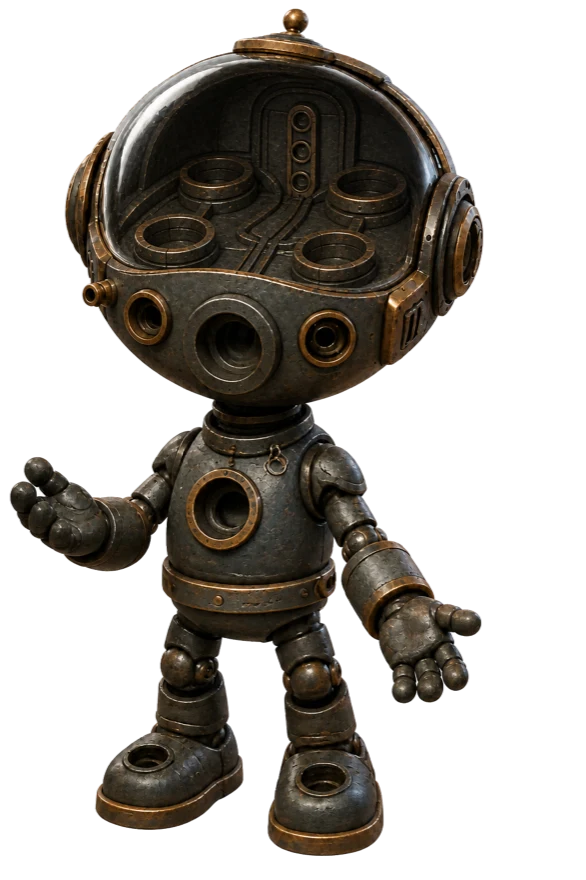
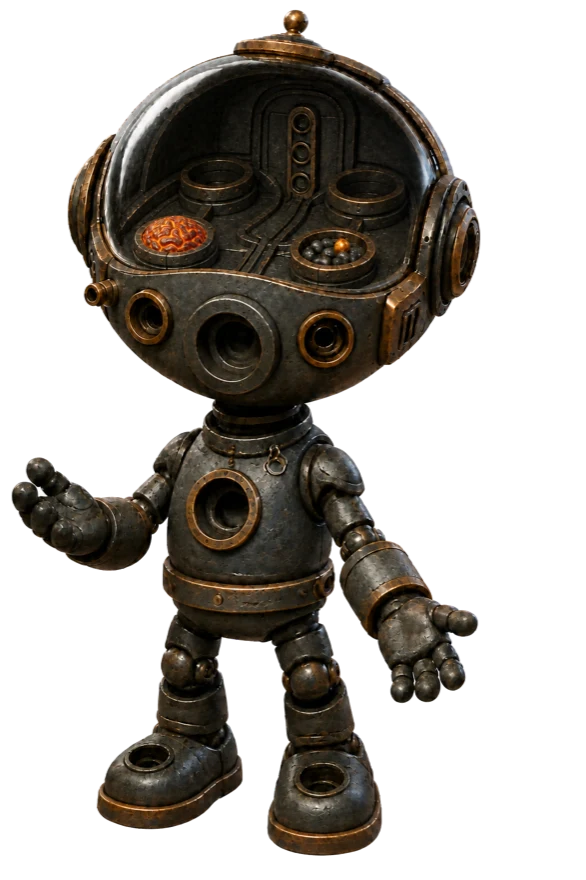
new/: the brain is no longer empty — honest loadout installed
The dome now shows the real state of the machine: the 04-qwen-reranker
loadout (checkerboard keyed out) — the ember Qwen 0.6B base brain and
the reranker sieve seated in their bays, both frozen items of the lab.
The deep assembler bay stays empty on purpose: that part is broken
(3/18) and being reforged — the emptiness IS the status. Blank chassis
kept as chassis-blank.webp; status text names the loadout.

diff --git a/new/site/app.js b/new/site/app.js
@@ -6282,7 +6282,7 @@ const gameCopy = {
     slotMind: "MIND",
     slotBody: "BODY",
     slotLink: "BEACON",
-    statusDefault: "Assembly power 3/18 — the assembler in the dome is broken. The move is nobody's.",
+    statusDefault: "Installed in the dome: the Qwen 0.6B base brain and the reranker sieve — both frozen. The deep bay gapes empty: the assembler is broken (3/18) and being reforged. The move is nobody's.",
     flavor: "Pocket i. If you can see this, thank the laboratory. It weighs 252,409,456 grams of honesty.",
     back: "← back",
     makeMove: "MAKE A MOVE",
@@ -6304,7 +6304,7 @@ const gameCopy = {
     slotMind: "РАЗУМ",
     slotBody: "ТЕЛО",
     slotLink: "МАЯК",
-    statusDefault: "Сила сборки 3/18 — в куполе сломан сборщик. Ход ничей.",
+    statusDefault: "В куполе установлено: базовый мозг Qwen 0.6B и сито-искатель — оба заморожены. Глубокий отсек зияет пустым: сборщик разбит (3/18) и перековывается. Ход ничей.",
     flavor: "Pocket i. Если вы это видите — спасибо лаборатории. Весит 252 409 456 граммов честности.",
     back: "← назад",
     makeMove: "СДЕЛАТЬ ХОД",

diff --git a/new/site/index.html b/new/site/index.html
@@ -12,7 +12,7 @@
   <meta property="og:url" content="https://joinmultiplayer.ai/">
   <meta name="theme-color" content="#f4f1e8">
   <link rel="icon" type="image/svg+xml" href="/favicon.svg?v=3">
-  <link rel="stylesheet" href="/style.css?v=new-vault1">
+  <link rel="stylesheet" href="/style.css?v=new-vault2">
 </head>
 <body>
   <main id="app">
@@ -28,6 +28,6 @@
       </section>
     </noscript>
   </main>
-  <script src="/app.js?v=new-vault1" defer></script>
+  <script src="/app.js?v=new-vault2" defer></script>
 </body>
 </html>
